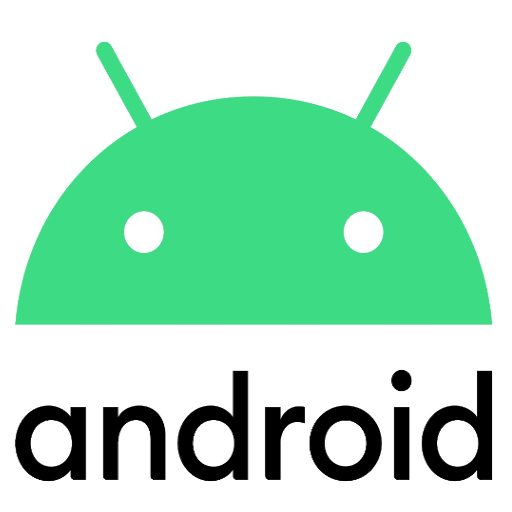
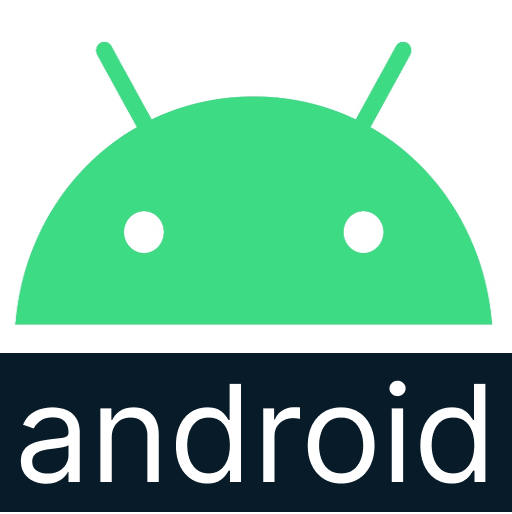
home and service complete

diff --git a/index.html b/index.html
@@ -12,7 +12,7 @@
 
      <!-- HEADER -->
     <header class="header">
-        <a href="#" class="logo" style="display: flex;justify-content: center;align-items: center;"><img style="color: white;" width="30px" height="30px" src="android02.png"/>&nbsp;&nbsp;Portfolio</a>
+        <a href="#" class="logo" style="display: flex;justify-content: center;align-items: center;"><img style="color: white;" width="30px" height="30px" src="android.png"/>&nbsp;&nbsp;Portfolio</a>
 
         <nav class="navbar">
           <ul>
@@ -33,8 +33,16 @@
             <h1 style="color:  #2EDB67;">Azmir Khan</h1>
             <h3 style="margin-top: 15px; margin-bottom: 6px;">And I am an</h3>
             <p><span style="color:  #4EDB77;  font-size: 28px;"><b>Android App Developer.</b></span></p>
-            <p style="margin-top: 15px;">I have dedicated myself to learning Android app development <span style="color: #DFB700;">since 2022,</span>
+            <p style="margin-top: 15px;">I have dedicated myself to learning Android app development <span style="color: #EFC700;">since 2022,</span>
                 <br>continuously expanding my skills and knowledge in this dynamic field.</p>
+                <div class="tools-container">
+                  <img style="width: 40px; height: 40px; border-radius: 50%; overflow: hidden;" src="androidstudio.png"/>
+                  <img style="width: 40px; height: 40px; border-radius: 50%; margin-left: 8px; overflow: hidden;" src="java.png"/>
+                  <img style="width: 40px; height: 40px; border-radius: 50%; margin-left: 8px; overflow: hidden;" src="firebase.png"/>
+                  <img style="width: 40px; height: 40px; border-radius: 50%; margin-left: 8px; overflow: hidden;" src="playstore.png"/>
+                  <img style="width: 40px; height: 40px; border-radius: 50%; margin-left: 8px; overflow: hidden;" src="git.png"/>
+                  <img style="width: 40px; height: 40px; border-radius: 50%; margin-left: 8px; overflow: hidden;" src="github.png"/>
+                </div>
                 <div class="home-sci">
                     <a href="https://m.me/azmirdroid"><i class='bx bxl-facebook'></i></a>
                     <!-- https://www.facebook.com/profile.php?id=100039341106827&mibextid=rS40aB7S9Ucbxw6v -->
@@ -43,6 +51,8 @@
                     <a href="#"><i class='bx bxl-linkedin'></i></a>
                 </div>
                 <a href="about.html" class="btn-box">More About Me</a>
+
+                
         </div>
     </section>
 
@@ -135,24 +145,24 @@
           <h1 class="sub-title">My <span>Services</span></h1>
           <div class="services-list">
             <div>
-              <i class='bx bxl-android' style="color: #00eeff"></i>
-              <h2>Develop Custom Android Apps</h2>
-              <p>I will develop your custom android app with amazing features.</p>
-              <a href="services.html" class="read">learn more</a>
+              <!-- <i class='bx bxl-android' style="color: #00eeff"></i> -->
+              <img style="width: 45px; height: 45px;" src="android_service.png"/>
+              <h2>Develop Custom <br>Android Apps</h2>
+              <a href="services.html" class="read">See more</a>
             </div>
     
             <div>
-              <i class='bx bx-crop' style='color:#00eeff'></i>
-              <h2>Debug Android Apps</h2>
-              <p>Lorem ipsum dolor sit amet consectetur adipisicing elit. illum nulla ea laboriosam delectus quis? Tenetur paria</p>
-              <a href="#" class="read">learn more</a>
+              <!-- <i class='bx bx-crop' style='color:#00eeff'></i> -->
+              <img style="width: 45px; height: 45px;" src="debug.png"/>
+              <h2>Debug <br>Android Apps</h2>
+              <a href="services.html" class="read">See more</a>
             </div>
     
             <div>
-              <i class="bx bxl-apple" style='color:#00eeff'></i>
-              <h2>UI/UX Design</h2>
-              <p>Lorem ipsum dolor sit amet consectetur adipisicing elit. illum nulla ea laboriosam delectus quis? Tenetur paria</p>
-              <a href="#" class="read">learn more</a>
+              <!-- <i class="bx bxl-apple" style='color:#00eeff'></i> -->
+              <img style="width: 45px; height: 45px;" src="maintenance.png"/>
+              <h2>App Maintenance <br>And Support</h2>
+              <a href="services.html" class="read">See more</a>
             </div>
           </div>
         </div>

diff --git a/stylesheet.css b/stylesheet.css
@@ -19,7 +19,7 @@ body
     top: 0;
     left: 0;
     width: 100%;
-    padding: 20px 5%;
+    padding: 12px 5%;
     background: transparent;
     display: flex;
     justify-content: space-between;
@@ -118,7 +118,7 @@ body
 {
     background: #0ef;
     color: #081b29;
-    box-shadow: 0 0 20px #0ef;
+    /* box-shadow: 0 0 20px #0ef; */
 }
 
 .btn-box
@@ -137,9 +137,17 @@ body
 .btn-box:hover
 {
     
-    box-shadow: 0 0 20px #0ef;
+    box-shadow: 0 0 10px #0ef;
     cursor: pointer;
 }
+
+.tools-container{
+    width: 100%; 
+    display: inline-block; 
+    margin-top: 20px; 
+    justify-content: left;
+}
+
 
     /* ############################################################################ */
 
@@ -150,6 +158,7 @@ body
       line-height: 1.4;
       margin-bottom: 4rem;
       padding-top: 0px;
+      align-items: center;
       }
       
       
@@ -169,6 +178,7 @@ body
     
     .service-container{
       padding: 100px 60px 60px 60px;
+      align-items: center;
     }
     
     
@@ -177,6 +187,9 @@ body
     grid-template-columns: repeat(auto-fit,minmax(259px,1fr));
     grid-gap: 40px;
     margin-top: 20px;
+    align-items: center;
+    justify-content: center;
+    justify-items: center;
     }
     
     
@@ -216,6 +229,7 @@ body
     font-size: 12px;
     margin-top: 20px;
     display: inline-block;
+    text-align: center;
     }
     
     
@@ -239,7 +253,7 @@ body
     
     
     .services-list div:hover{
-      transform: translateY(-3px);
+      transform: translateY(-2px);
     }
       /* SERVICES SECTION END */
       /* ######################################################################## */
@@ -475,7 +489,7 @@ body
     .contact-icons i:hover{
         background: #0ef;
         color: #000;
-        box-shadow: 0 0 20px #0ef;
+        /* box-shadow: 0 0 20px #0ef; */
     }
 
     .contact-form form{

diff --git a/services.html b/services.html
@@ -9,7 +9,9 @@
             font-family: Arial, sans-serif;
             margin: 0;
             padding: 0;
-            background-color: #192a56; /* Dark blue background color */
+            /* Dark blue background color */
+            /* background-color: #192a56;  */
+            background-color: #081b29;
             color: #fff; /* Text color */
         }
 
@@ -17,14 +19,17 @@
             max-width: 800px;
             margin: 50px auto;
             padding: 20px;
-            background-color: #273c75; /* Dark blue background color for section */
+            /* Dark blue background color for section */
+            /* background-color: #273c75;  */
+            background-color: transparent; 
             border-radius: 10px;
-            box-shadow: 0 0 10px rgba(0, 0, 0, 0.5);
+            box-shadow: 1px 1px 20px #012290F7, 
+    1px 1px 40px #0053B8F7
         }
 
         .services-section h2 {
             margin-bottom: 20px;
-            font-size: 2rem;
+            font-size: 2.5rem;
             color: #0abde3; /* Light blue color for heading */
         }
 
